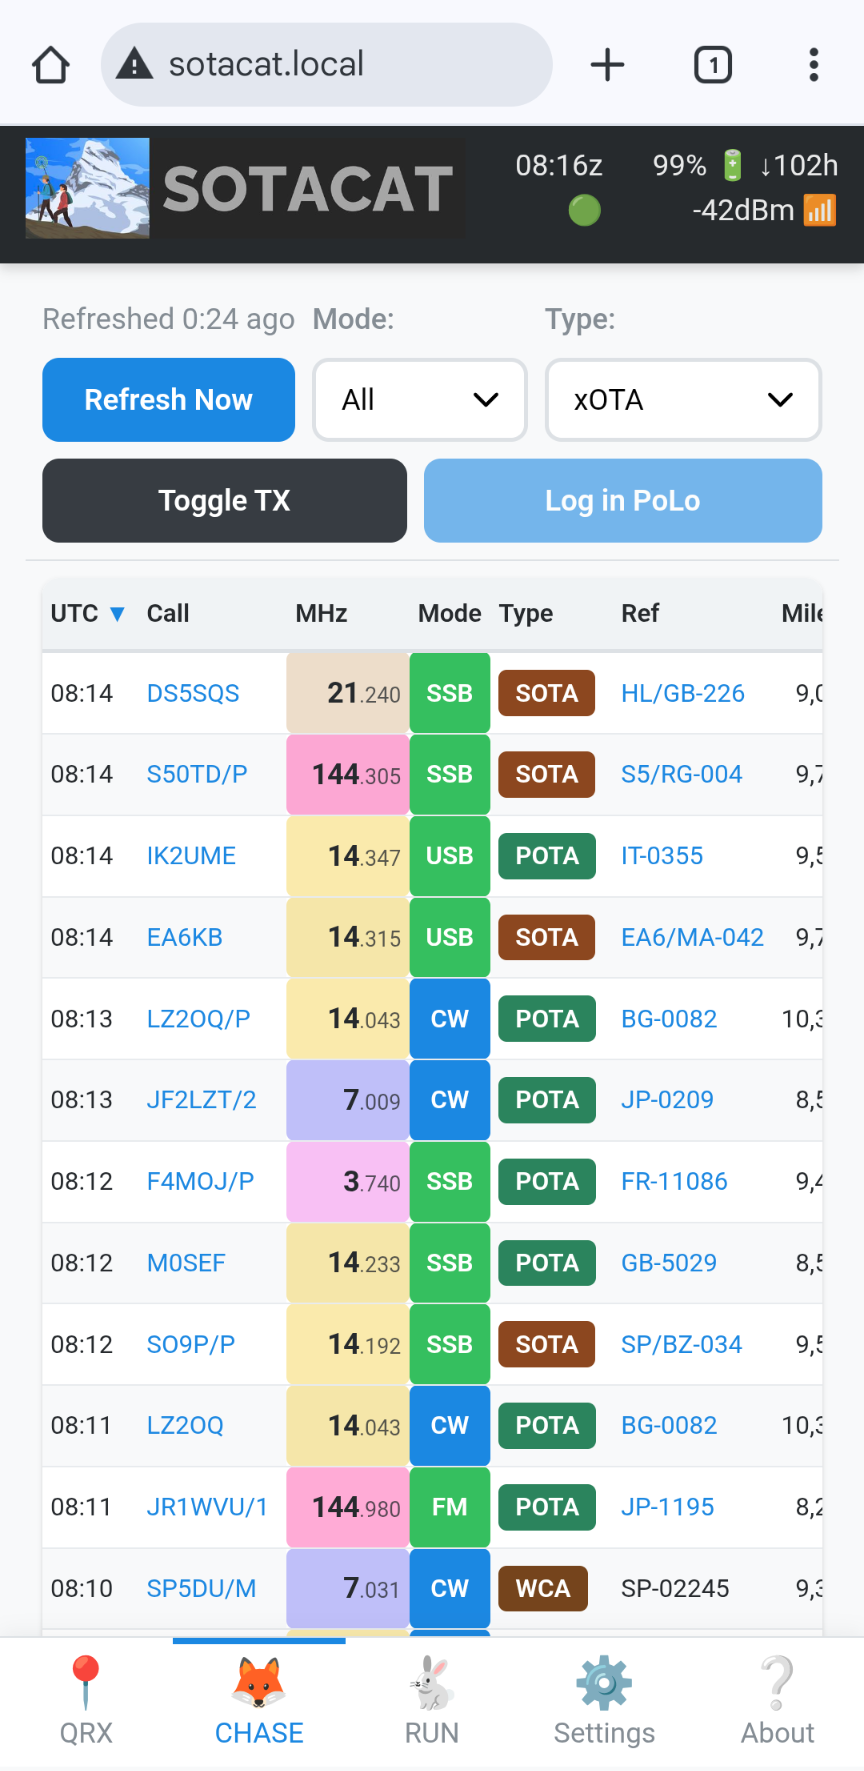
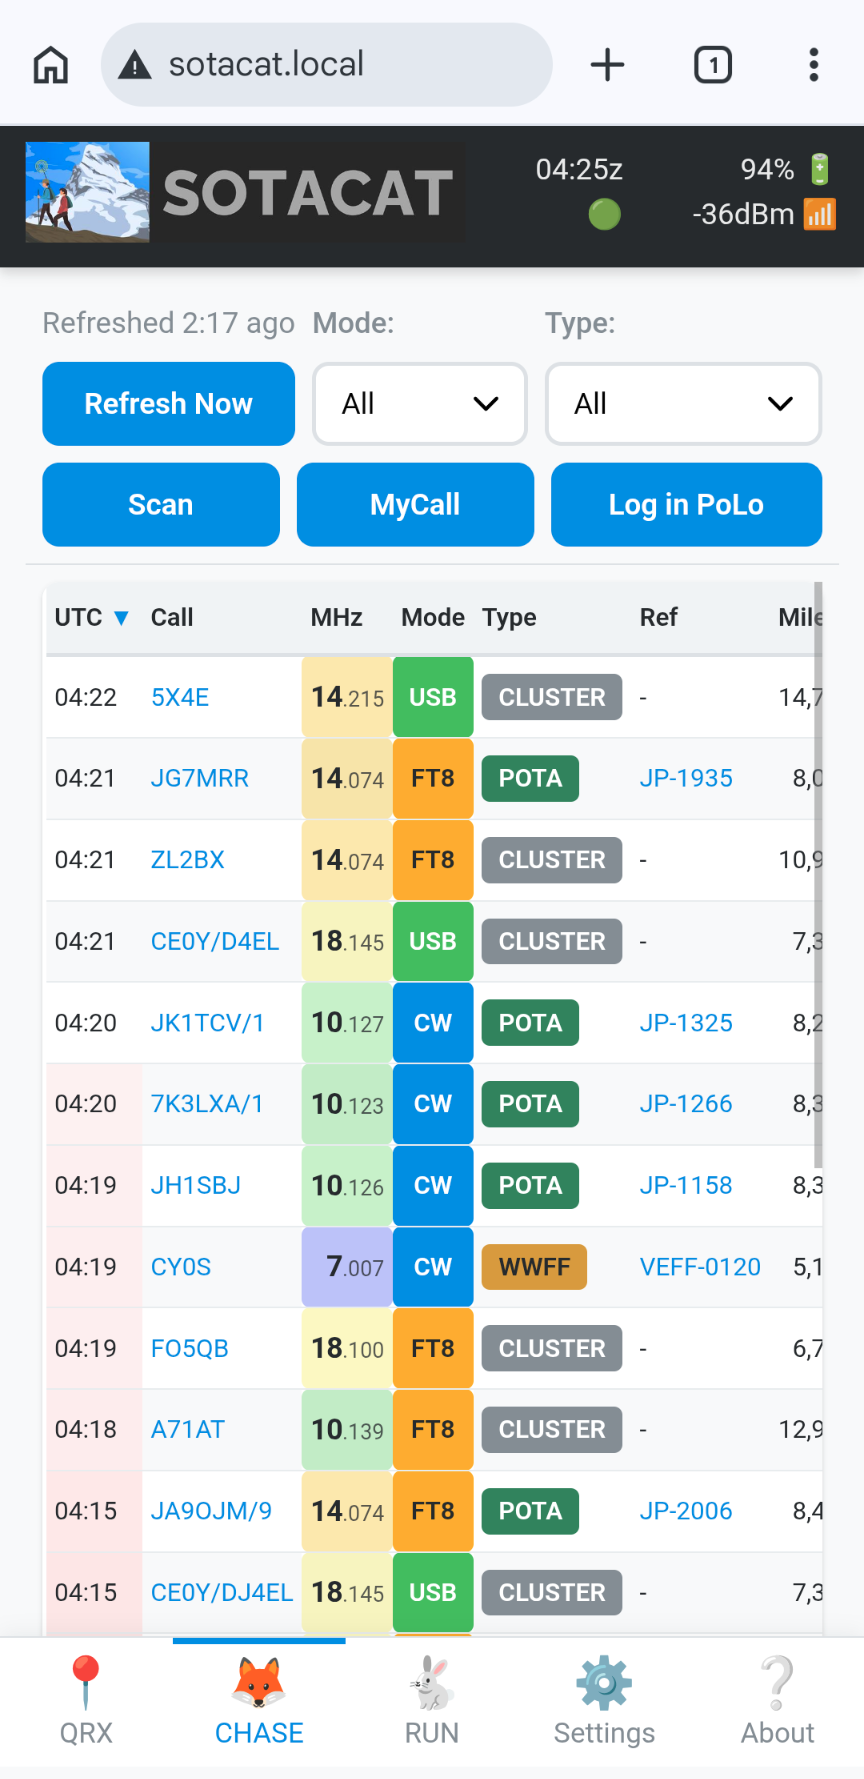
document scan feature

diff --git a/Documentation/user/UI-Tour.md b/Documentation/user/UI-Tour.md
@@ -33,6 +33,14 @@ Hunt activators from the spot list.
 
 ![CHASE page with spots](../images/chase-spots.png)
 
+**Scan** — Press the Scan button to automatically cycle through visible spots. The radio tunes to each spot in turn and the row scrolls into view. The button changes to "Stop" while scanning. Any other interaction (refresh, filter change, column sort, row click, MyCall, or Log in PoLo) stops the scan.
+
+**Keyboard shortcuts (desktop):**
+- **Space** — start/stop scan
+- **j** / **k** — move down/up through spots (stops any active scan)
+
+Scan dwell time is configurable in Settings → Display (default 7 seconds).
+
 > **Note:** CHASE requires internet. When offline, this page will be empty.
 
 ## RUN — Operate
@@ -78,7 +86,7 @@ One-time setup and preferences.
 ![Tune targets settings](../images/settings-tune-targets.png)
 
 - CW macros (configurable keyer buttons with placeholders)
-- Display settings (compact mode)
+- Display settings (compact mode, scan dwell time)
 
 ![Display and chase filter settings](../images/settings-display-and-chase-filters.png)
 

diff --git a/README.md b/README.md
@@ -6,7 +6,7 @@ WiFi CAT control for Elecraft KX2/KX3/KH1. Your phone becomes your radio console
 
 ### Chase contacts with click-to-pounce
 
-Tap a spot, radio tunes. SOTA, POTA, WWFF—all in one list.
+Tap a spot, radio tunes. Scan to cycle through spots hands-free. SOTA, POTA, WWFF—all in one list.
 
 ![CHASE page with spots and tap-to-tune](Documentation/images/chase-spots.png)
 
@@ -34,7 +34,7 @@ Full rig control, CW keyer, and self-spotting—even off-grid via FT8.
 
 ### With Cell Service
 
-- **CHASE** live spots with tap-to-tune
+- **CHASE** live spots with tap-to-tune and auto-scan
 - SMS Spot / SMS QRT buttons
 - Full click-to-pounce workflow
 
